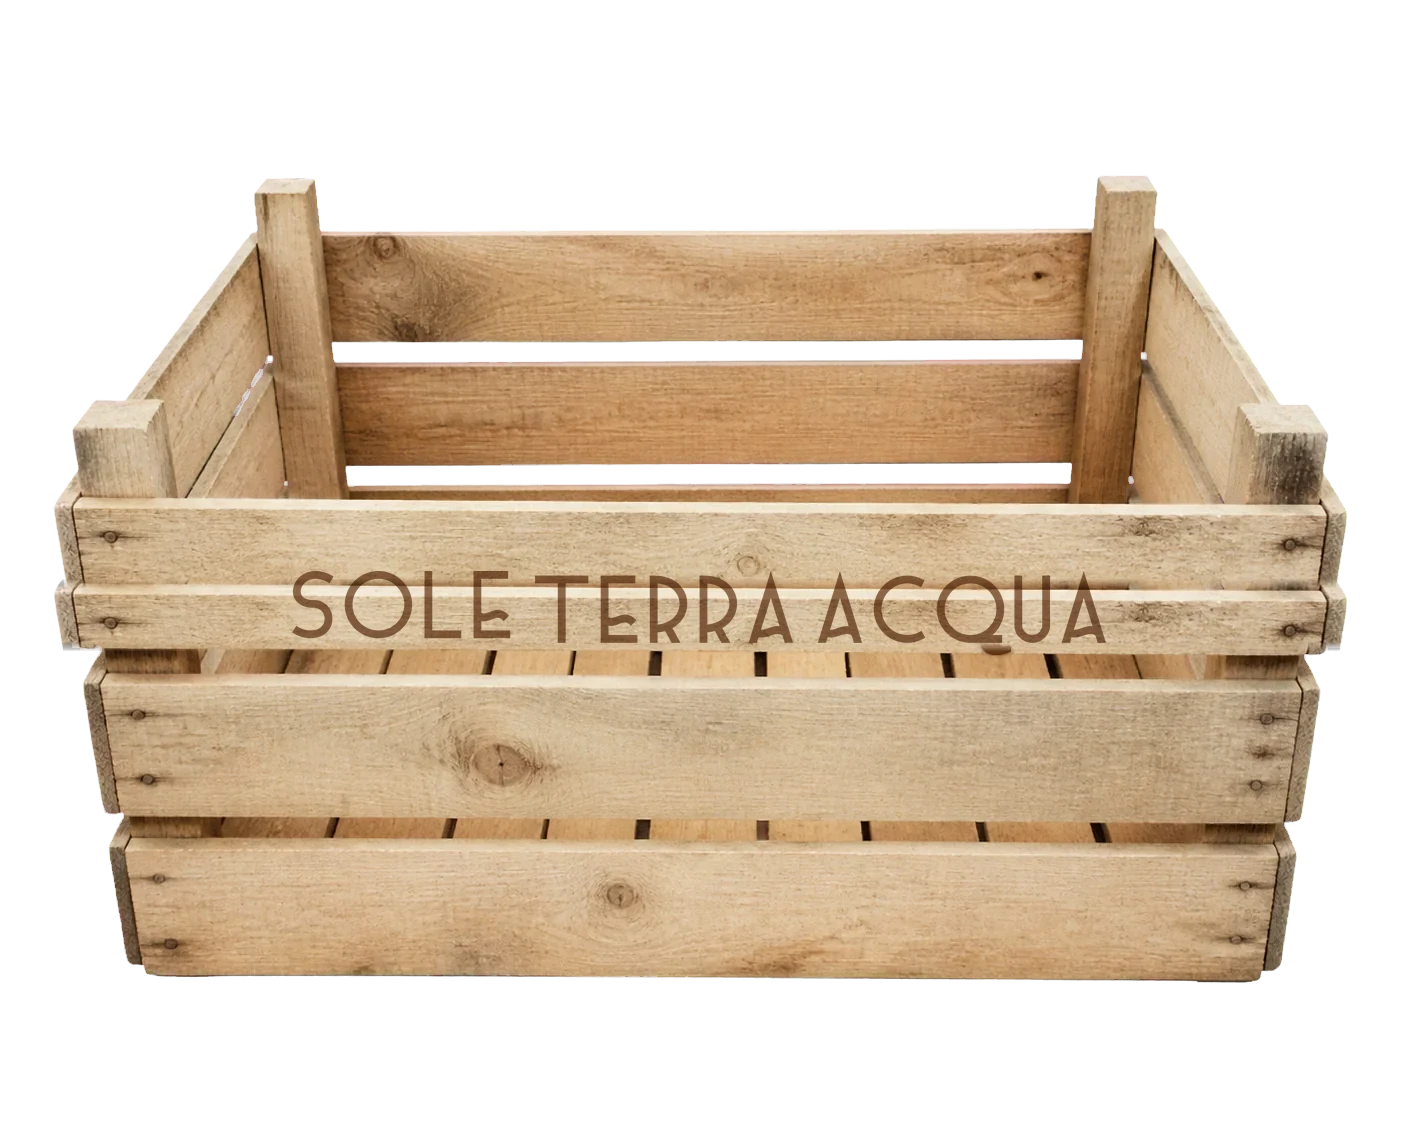
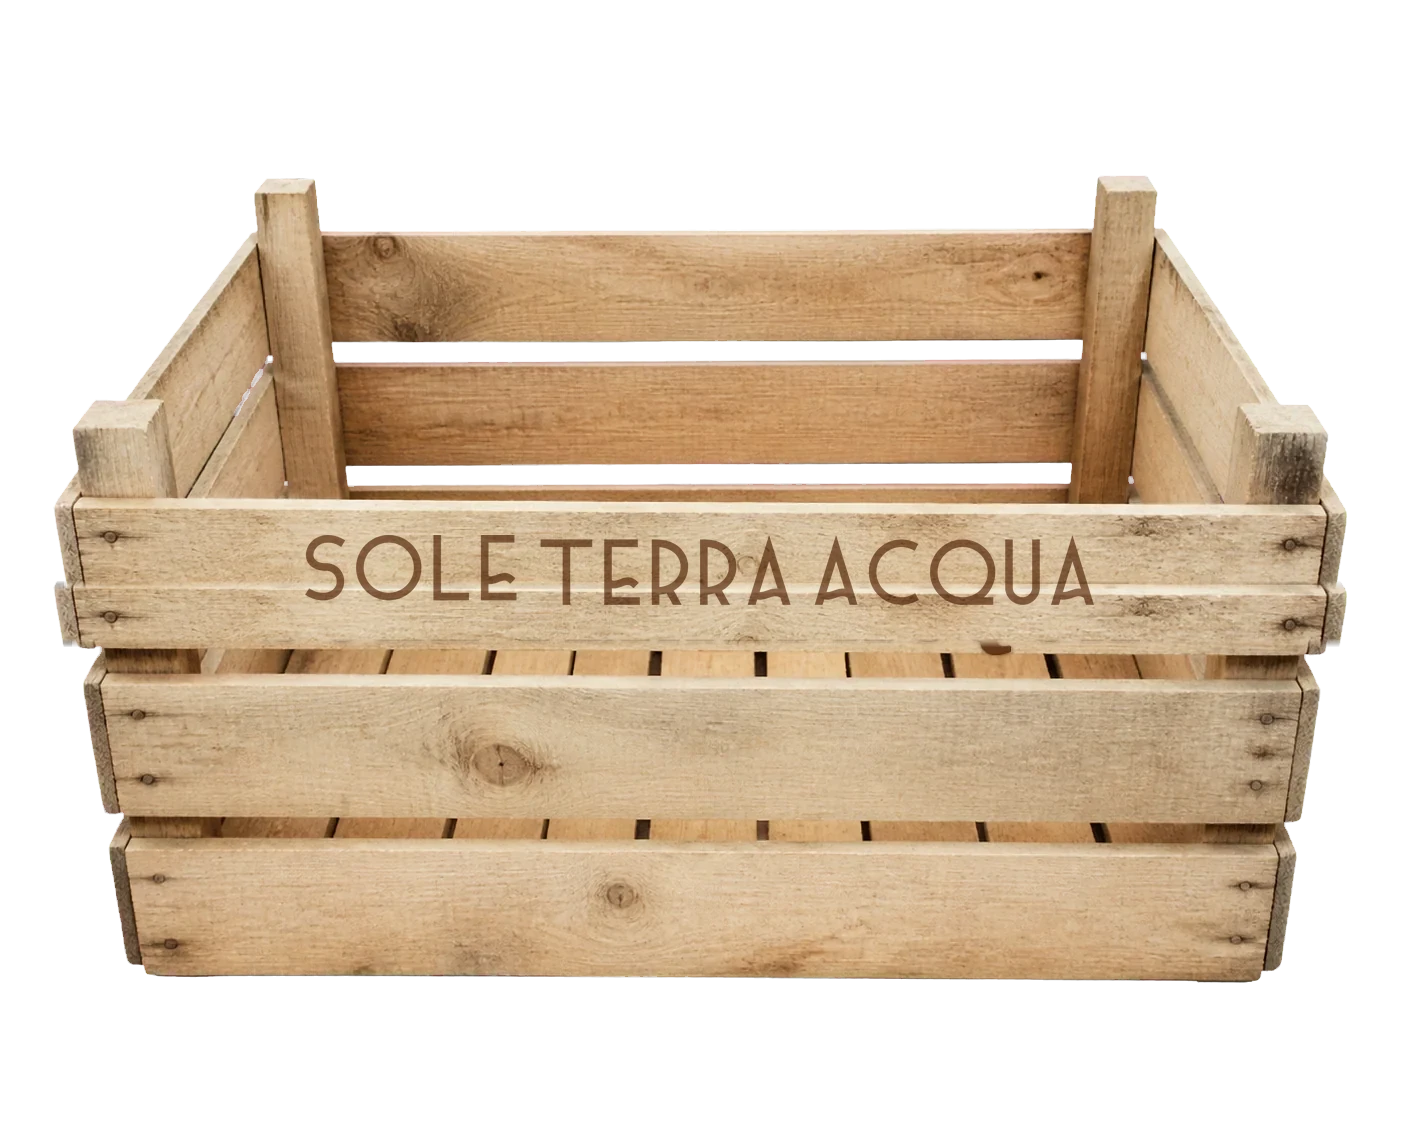
Marchio sulle cassette: ora sta dentro l'asse di legno
Sulla cassetta grande la scritta finiva a cavallo del vuoto tra due assi:
avevo ricavato la posizione dalla vecchia scritta invece che dal legno, e
sulla grande la vecchia stava in fondo alla sua asse, quindi ingrandendola
sbordava. Ora le tre posizioni sono misurate una per una sul legno e
verificate a vista: piccola y 683-733 su sponda 658-756, media 535-605 su
asse 492-645, grande 543-605 su asse 512-638.

Rifatta anche la cancellatura della vecchia scritta. Prima copiavo una
fascia presa piu' in alto: sulla piccola cadeva dentro la cassetta invece
che sulla sponda, e restava visibile. Ora media e grande prendono il legno
piu' in alto ma dentro la stessa asse, mentre la piccola, che ha la sponda
troppo bassa per avere spazio sopra, viene ricostruita in verticale sulle
sole colonne della scritta.

Cache offline portata a v13.

Changed region(s): [[0.0307, 0.4679, 0.9815, 0.5927]]

diff --git a/sw.js b/sw.js
@@ -1,4 +1,4 @@
-const CACHE_NAME = "sole-terra-acqua-v12";
+const CACHE_NAME = "sole-terra-acqua-v13";
 
 // Solo l'essenziale per far comparire il sito subito, anche senza rete.
 // Tutto il resto (foto della galleria, immagini del catalogo) viene messo in
